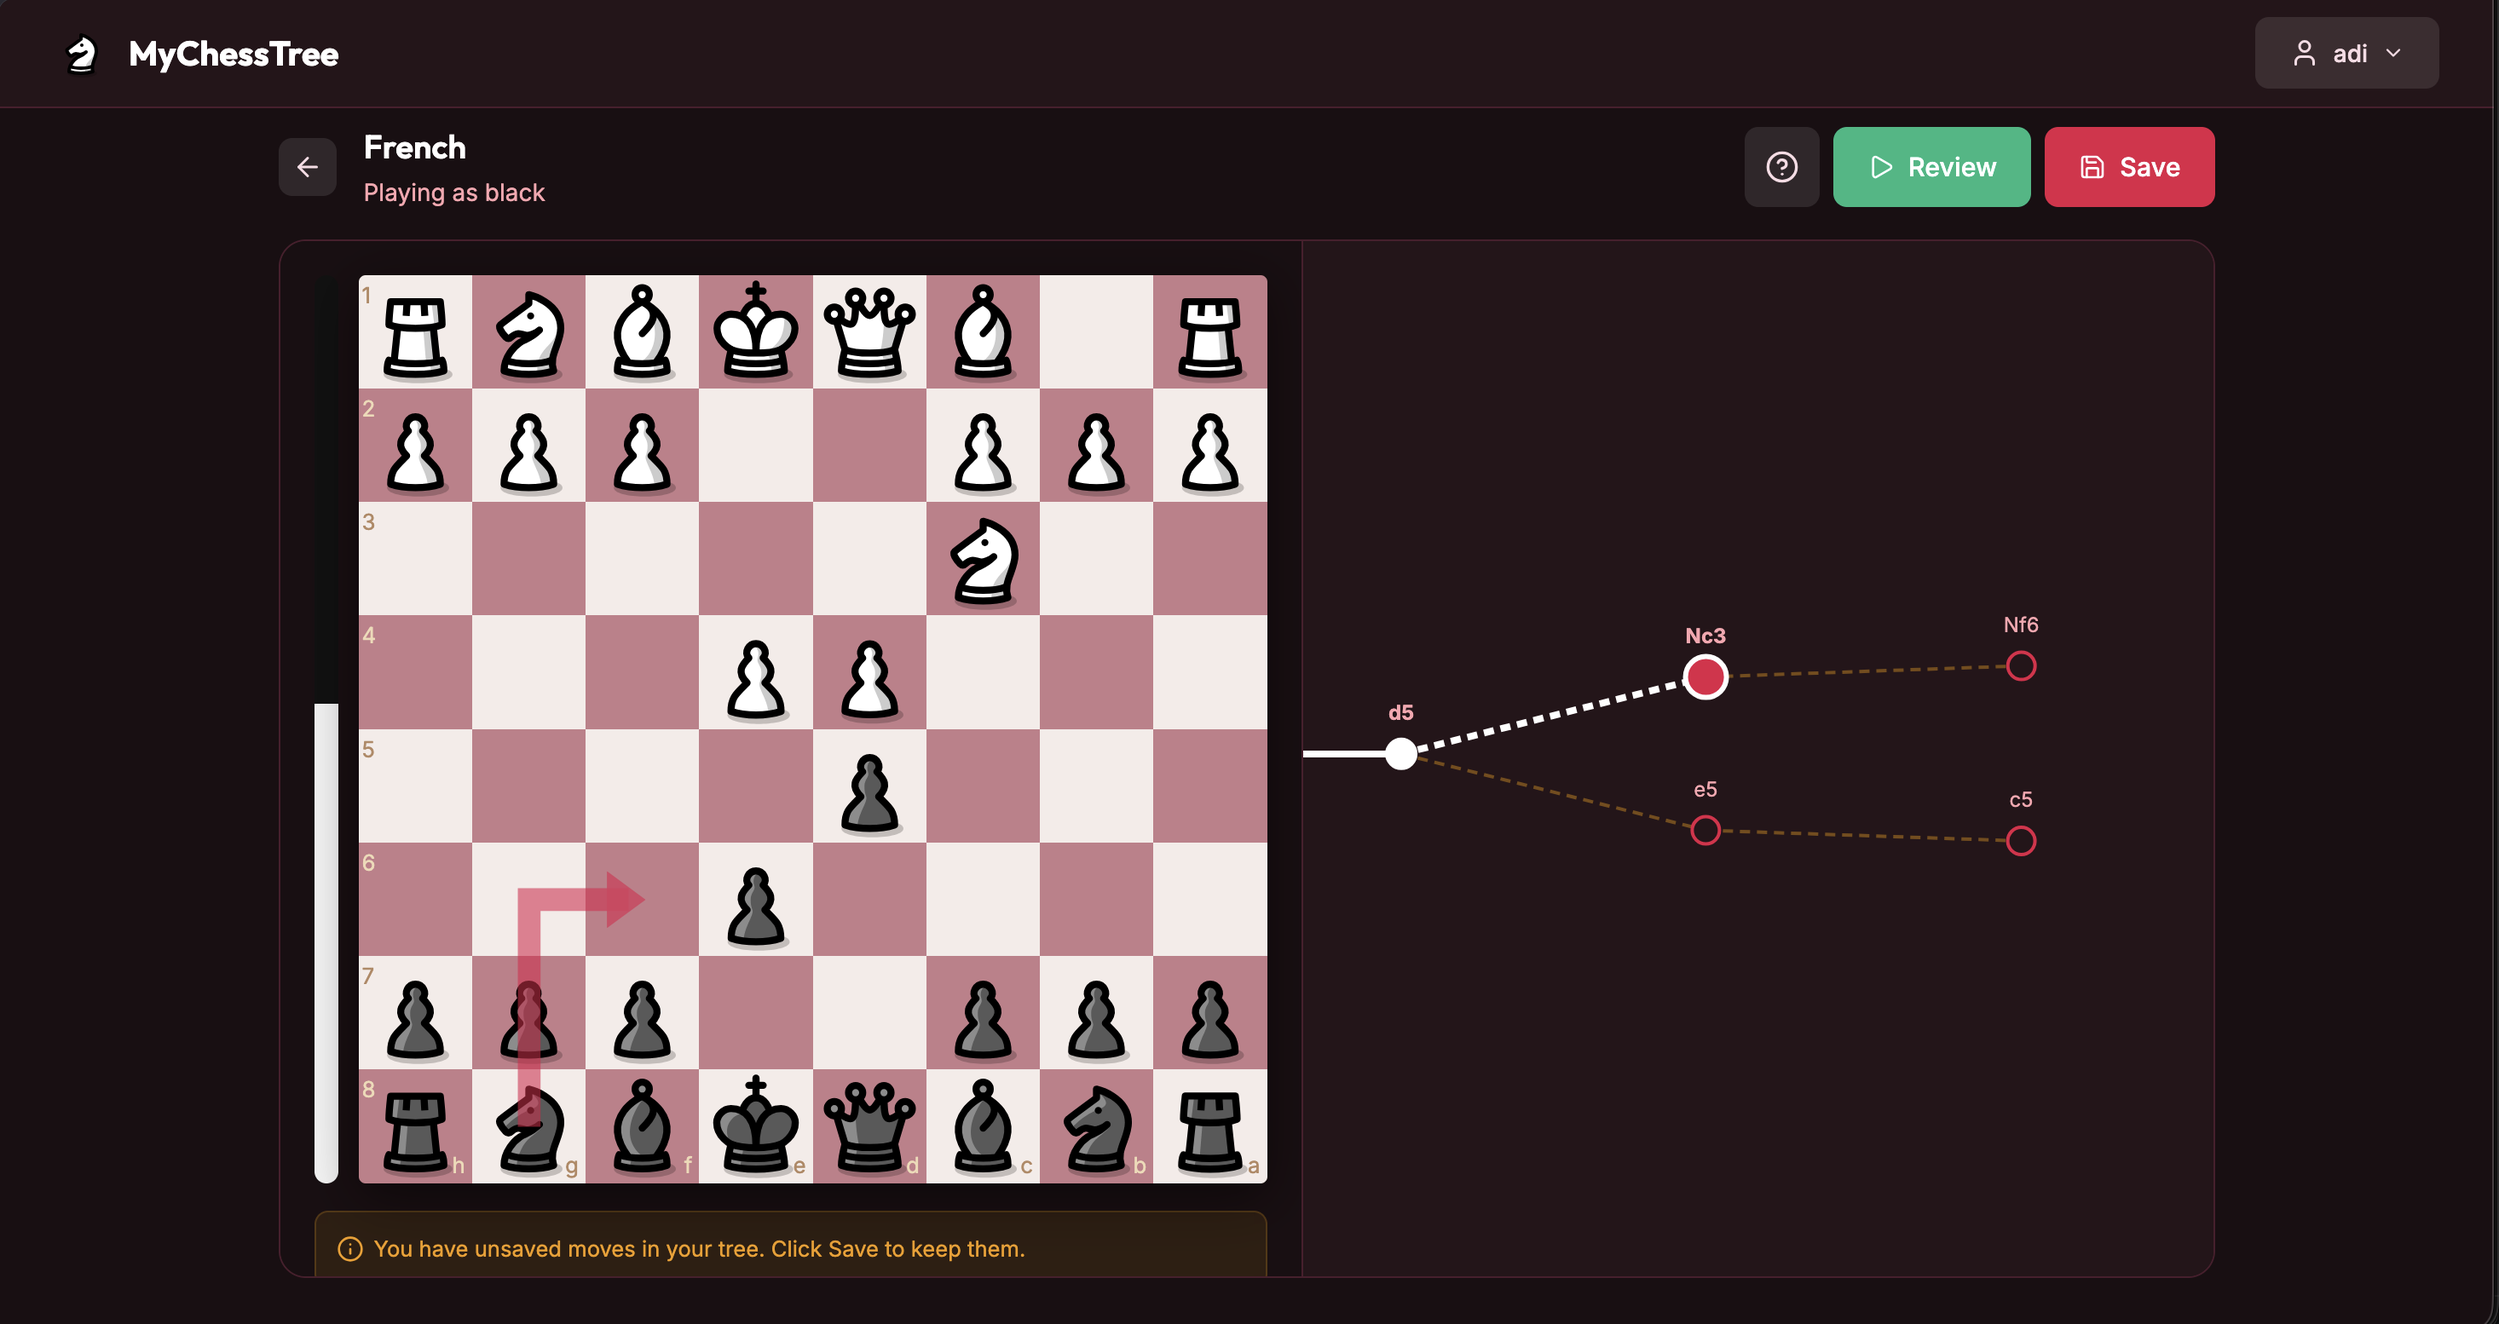
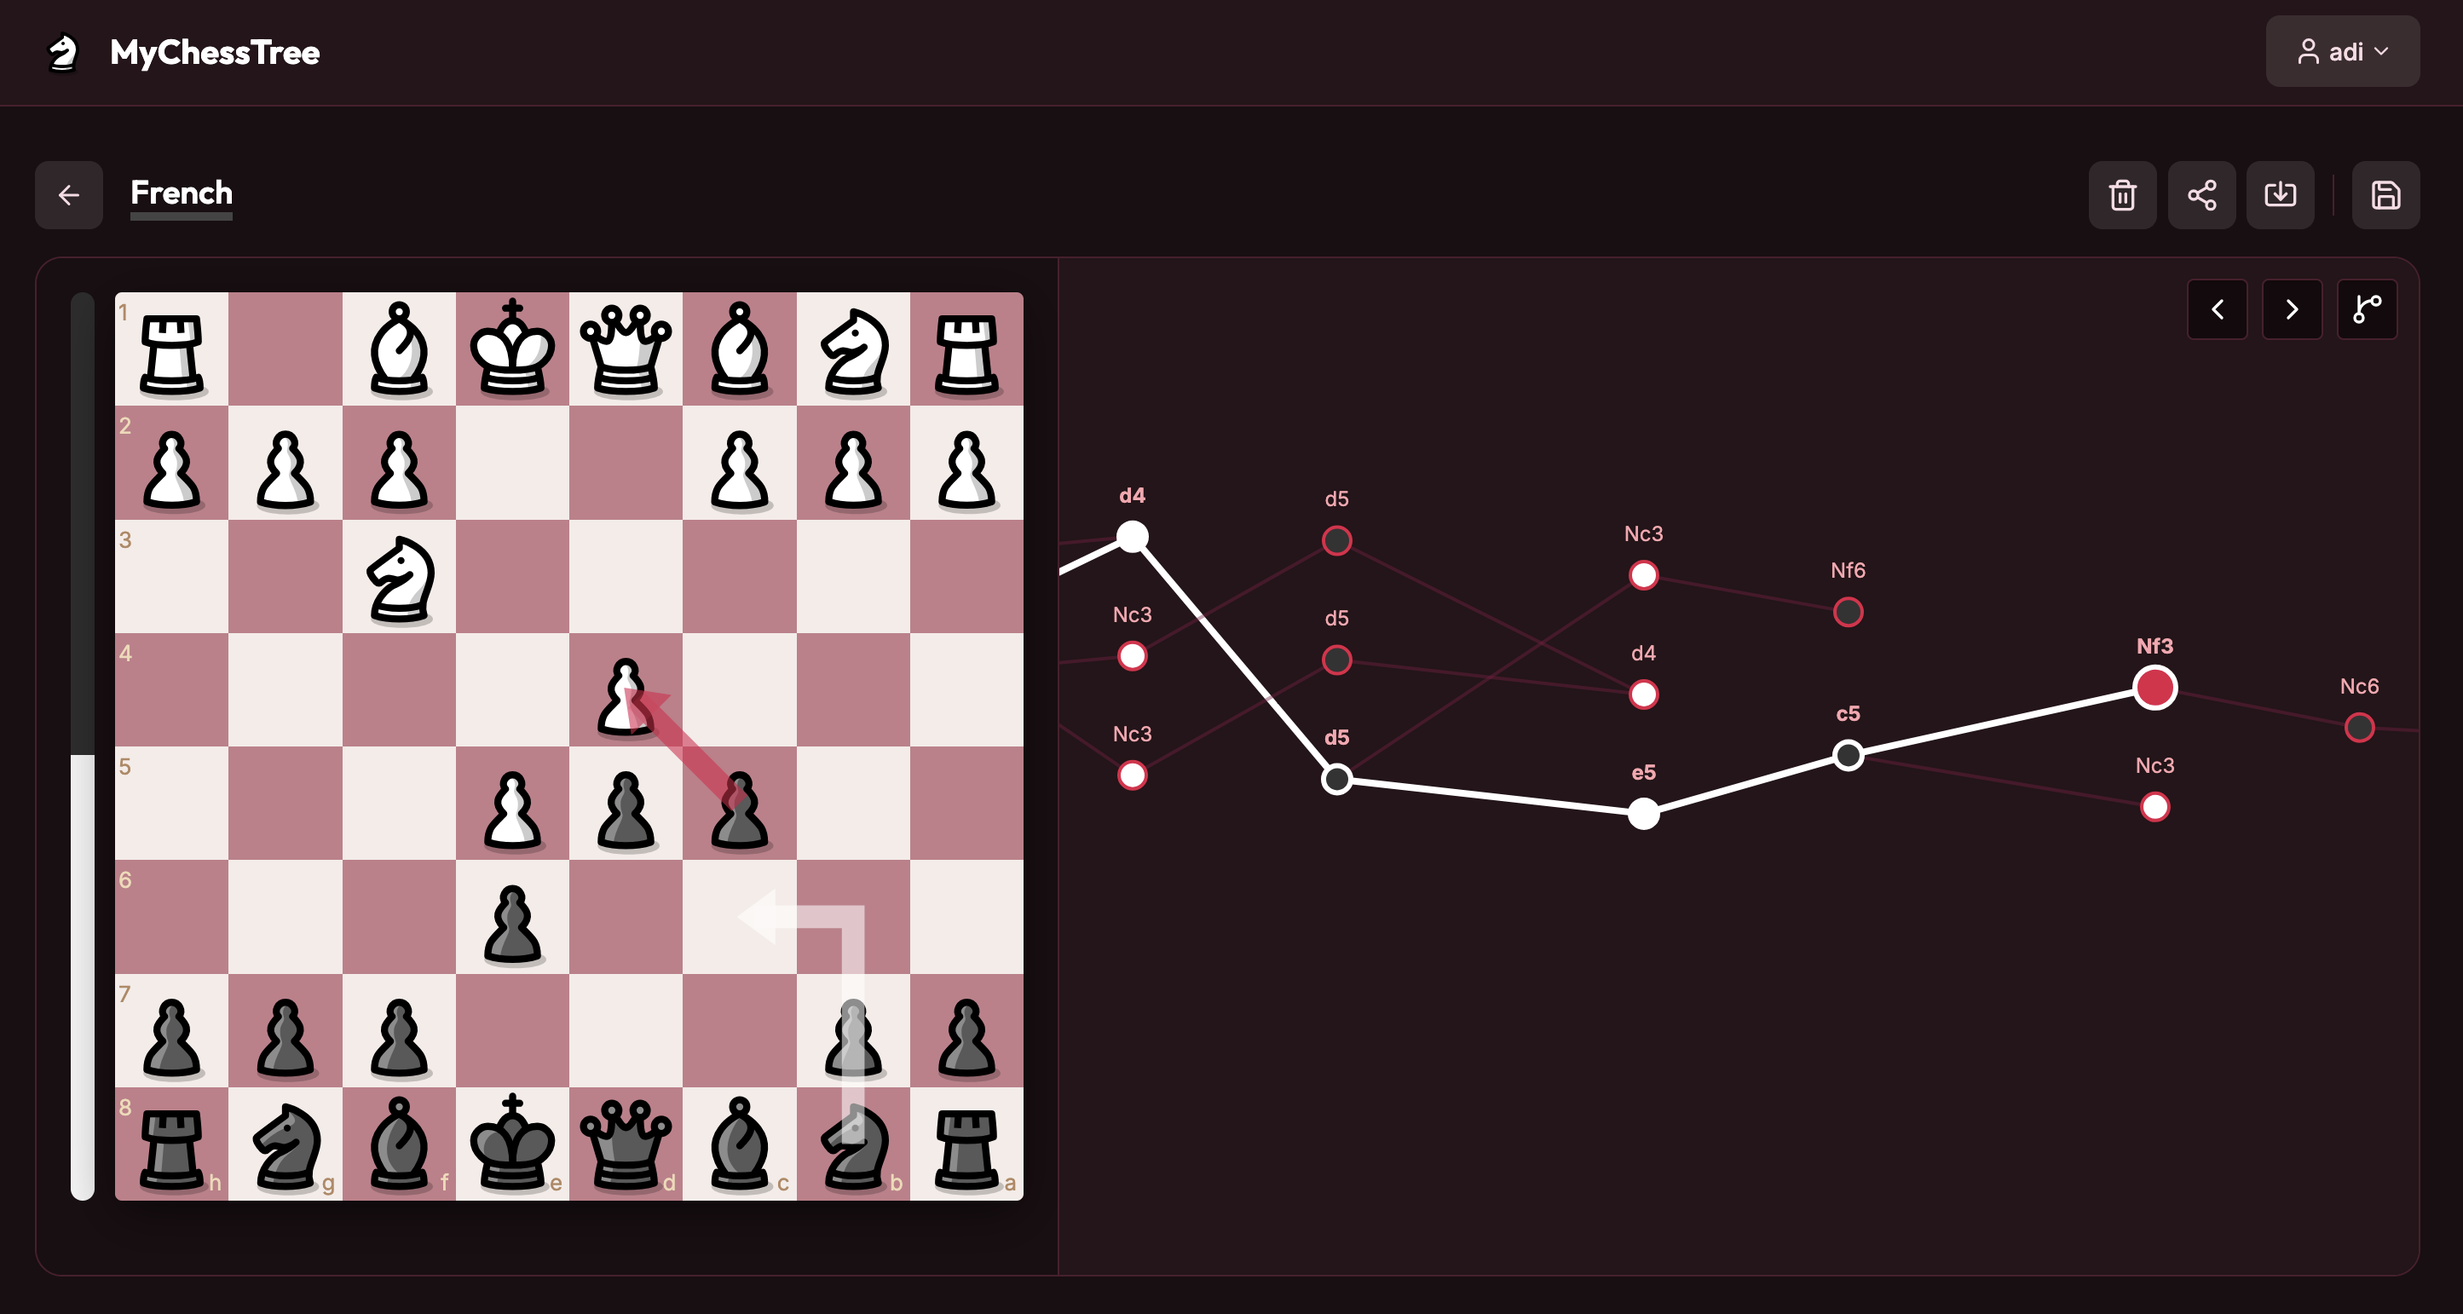
left and right

diff --git a/src/pages/TreeEditor.tsx b/src/pages/TreeEditor.tsx
@@ -7,7 +7,7 @@ import { supabase } from '../lib/supabase';
 import ForceTree from '../components/ForceTree';
 import { useAuth } from '../hooks/useAuth';
 import { useMobile } from '../hooks/useMobile';
-import { ArrowLeft, Save, X, Share2, Trash2, Users, Import, Menu } from 'lucide-react';
+import { ArrowLeft, Save, X, Share2, Trash2, Users, Import, Menu, Eye, Pencil } from 'lucide-react';
 import TooltipButton from '../components/TooltipButton';
 import { calientePieces, boardStyles } from '../lib/chessAssets';
 import type { TreeNode } from '../types/tree';
@@ -70,34 +70,78 @@ export default function TreeEditor() {
           gameRef.current = new Chess(nextNode.fen);
           setCurrentFen(nextNode.fen);
         } else if (importedBranch && importedBranch.children.length > 0) {
-          // Check if we're at the diverge point (importedBranch.fen)
+          // Check if we're in an imported branch and find next node
+          const findInImportedBranch = (node: TreeNode, targetFen: string): TreeNode | null => {
+            if (node.fen === targetFen) return node;
+            for (const child of node.children) {
+              const found = findInImportedBranch(child, targetFen);
+              if (found) return found;
+            }
+            return null;
+          };
+
+          // Check if we're at the diverge point
           if (currentFen === importedBranch.fen && importedBranch.children.length > 0) {
             const branchNode = importedBranch.children[0];
             gameRef.current = new Chess(branchNode.fen);
             setCurrentFen(branchNode.fen);
+          } else {
+            // Find current node in imported branch and go to its child
+            const importedCurrentNode = findInImportedBranch(importedBranch, currentFen);
+            if (importedCurrentNode && importedCurrentNode.children.length > 0) {
+              const nextNode = importedCurrentNode.children[0];
+              gameRef.current = new Chess(nextNode.fen);
+              setCurrentFen(nextNode.fen);
+            }
           }
         }
       } else if (e.key === 'ArrowLeft') {
-        // Go to parent - check if we're in an imported branch
+        // Go to parent - check if we're in an imported branch first
         if (importedBranch && importedBranch.children.length > 0) {
-          const isInImportedBranch = (fen: string): boolean => {
-            const checkNode = (node: TreeNode): boolean => {
-              if (node.fen === fen) return true;
-              for (const child of node.children) {
-                if (checkNode(child)) return true;
-              }
-              return false;
-            };
-            for (const child of importedBranch.children) {
-              if (checkNode(child)) return true;
+          const findInImportedBranch = (node: TreeNode, targetFen: string): TreeNode | null => {
+            if (node.fen === targetFen) return node;
+            for (const child of node.children) {
+              const found = findInImportedBranch(child, targetFen);
+              if (found) return found;
             }
-            return false;
+            return null;
+          };
+
+          const findParentInImportedBranch = (node: TreeNode, targetFen: string, parent: TreeNode | null): TreeNode | null => {
+            if (node.fen === targetFen) return parent;
+            for (const child of node.children) {
+              const found = findParentInImportedBranch(child, targetFen, node);
+              if (found) return found;
+            }
+            return null;
           };
           
-          if (isInImportedBranch(currentFen)) {
-            // Go back to the diverge point
-            gameRef.current = new Chess(importedBranch.fen);
-            setCurrentFen(importedBranch.fen);
+          // Check if we're in the imported branch
+          const importedCurrentNode = findInImportedBranch(importedBranch, currentFen);
+          if (importedCurrentNode) {
+            // If we're at the diverge point, go back to main tree parent
+            if (currentFen === importedBranch.fen) {
+              const findParent = (node: TreeNode, targetFen: string, parent: TreeNode | null): TreeNode | null => {
+                if (node.fen === targetFen) return parent;
+                for (const child of node.children) {
+                  const found = findParent(child, targetFen, node);
+                  if (found) return found;
+                }
+                return null;
+              };
+              const parentNode = findParent(treeData, currentFen, null);
+              if (parentNode) {
+                gameRef.current = new Chess(parentNode.fen);
+                setCurrentFen(parentNode.fen);
+              }
+            } else {
+              // Go to parent in imported branch
+              const importedParent = findParentInImportedBranch(importedBranch, currentFen, null);
+              if (importedParent) {
+                gameRef.current = new Chess(importedParent.fen);
+                setCurrentFen(importedParent.fen);
+              }
+            }
             return;
           }
         }
@@ -163,7 +207,7 @@ export default function TreeEditor() {
     setLoadingShares(true);
     const { data } = await supabase
       .from('tree_shares')
-      .select('*, users!tree_shares_user_id_fkey(username)')
+      .select('*, users!inner(username)')
       .eq('tree_id', id);
     setExistingShares(data || []);
     setLoadingShares(false);
@@ -450,27 +494,36 @@ export default function TreeEditor() {
               Share Tree
             </h2>
 
-            <div className="input-group">
-              <label>Recipient Username</label>
-              <input
-                type="text"
-                className="input"
-                placeholder="Enter exact username"
-                value={shareUsername}
-                onChange={(e) => setShareUsername(e.target.value.toLowerCase())}
-              />
-            </div>
-
-            <div className="input-group">
-              <label>Access Level</label>
-              <select
-                className="input"
-                value={shareAccess}
-                onChange={(e) => setShareAccess(e.target.value as 'read' | 'edit')}
-              >
-                <option value="read">Can View (Read Only)</option>
-                <option value="edit">Can Edit & Save</option>
-              </select>
+            <div style={{ display: 'flex', gap: '0.5rem', alignItems: 'center' }}>
+              <div className="input-group" style={{ flex: 1, marginBottom: 0 }}>
+                <label>Recipient Username</label>
+                <div style={{ display: 'flex', gap: '0.5rem', alignItems: 'center' }}>
+                  <input
+                    type="text"
+                    className="input"
+                    placeholder="Enter exact username"
+                    value={shareUsername}
+                    onChange={(e) => setShareUsername(e.target.value.toLowerCase())}
+                    style={{ flex: 1 }}
+                  />
+                  <TooltipButton
+                    tooltip={`Current: ${shareAccess === 'read' ? 'Read Only' : 'Edit Access'} - Click to toggle`}
+                    onClick={() => setShareAccess(shareAccess === 'read' ? 'edit' : 'read')}
+                    className="btn btn-secondary"
+                    style={{ 
+                      padding: '0.5rem', 
+                      display: 'flex', 
+                      alignItems: 'center', 
+                      justifyContent: 'center',
+                      minWidth: '44px',
+                      height: '40px',
+                      flexShrink: 0
+                    }}
+                  >
+                    {shareAccess === 'read' ? <Eye size={18} /> : <Pencil size={18} />}
+                  </TooltipButton>
+                </div>
+              </div>
             </div>
 
             {shareStatus.msg && (
@@ -512,7 +565,7 @@ export default function TreeEditor() {
                 }
               }}
               className="btn"
-              style={{ width: '100%' }}
+              style={{ width: '100%', marginTop: '1rem' }}
             >
               Grant Access
             </button>
@@ -525,9 +578,23 @@ export default function TreeEditor() {
                   <div style={{ display: 'flex', flexDirection: 'column', gap: '0.75rem' }}>
                     {existingShares.length === 0 ? <div className="text-muted text-sm">No shares yet.</div> : existingShares.map(s => (
                       <div key={s.user_id} className="flex items-center justify-between" style={{ padding: '0.5rem', backgroundColor: 'rgba(255,255,255,0.03)', borderRadius: '4px' }}>
-                        <div>
+                        <div style={{ display: 'flex', alignItems: 'center', gap: '0.75rem' }}>
+                          <div 
+                            style={{ 
+                              padding: '0.25rem', 
+                              marginLeft: '0.5rem',
+                              borderRadius: '4px', 
+                              backgroundColor: 'rgba(255,255,255,0.1)', 
+                              display: 'flex', 
+                              alignItems: 'center', 
+                              justifyContent: 'center',
+                              width: '24px',
+                              height: '24px'
+                            }}
+                          >
+                            {s.access_level === 'read' ? <Eye size={14} /> : <Pencil size={14} />}
+                          </div>
                           <div style={{ fontSize: '0.9rem', fontWeight: 600 }}>{s.users?.username || 'Unknown'}</div>
-                          <div className="text-muted text-xs uppercase">{s.access_level}</div>
                         </div>
                         <button
                           onClick={async () => {

diff --git a/src/components/ForceTree.tsx b/src/components/ForceTree.tsx
@@ -1,6 +1,6 @@
 import { useEffect, useRef, useState, useCallback, useMemo } from 'react';
 import * as d3 from 'd3';
-import { GitBranchPlus, GitBranch } from 'lucide-react';
+import { GitBranchPlus, GitBranch, ChevronLeft, ChevronRight } from 'lucide-react';
 import TooltipButton from './TooltipButton';
 
 export interface TreeNode {
@@ -44,6 +44,75 @@ export default function ForceTree({ data, currentFen, onNodeClick, isDeleteMode,
   const svgRef = useRef<SVGSVGElement>(null);
   const [focusMode, setFocusMode] = useState(false);
   const activePath = useMemo(() => pathToNode(data, currentFen), [data, currentFen]);
+
+  // Navigation functions
+  const navigateLeft = useCallback(() => {
+    // Find parent of current node
+    const findParent = (node: TreeNode, targetFen: string, parent: TreeNode | null): TreeNode | null => {
+      if (node.fen === targetFen) return parent;
+      for (const child of node.children) {
+        const found = findParent(child, targetFen, node);
+        if (found) return found;
+      }
+      return null;
+    };
+
+    // Check if we're in an imported branch first
+    if (importedBranch && importedBranch.children.length > 0) {
+      const isInImportedBranch = (fen: string): boolean => {
+        const checkNode = (node: TreeNode): boolean => {
+          if (node.fen === fen) return true;
+          for (const child of node.children) {
+            if (checkNode(child)) return true;
+          }
+          return false;
+        };
+        for (const child of importedBranch.children) {
+          if (checkNode(child)) return true;
+        }
+        return false;
+      };
+      
+      if (isInImportedBranch(currentFen)) {
+        // Go back to the diverge point
+        onNodeClick({ fen: importedBranch.fen, move: 'Start' });
+        return;
+      }
+    }
+
+    // Otherwise find parent in main tree
+    const parentNode = findParent(data, currentFen, null);
+    if (parentNode) {
+      onNodeClick({ fen: parentNode.fen, move: parentNode.move || 'Start' });
+    }
+  }, [currentFen, data, importedBranch, onNodeClick]);
+
+  const navigateRight = useCallback(() => {
+    // Find current node in tree
+    const findNode = (node: TreeNode, fen: string): TreeNode | null => {
+      if (node.fen === fen) return node;
+      for (const child of node.children) {
+        const found = findNode(child, fen);
+        if (found) return found;
+      }
+      return null;
+    };
+
+    const currentNode = findNode(data, currentFen);
+    if (!currentNode) return;
+
+    // Go to first child - check main tree first, then imported branch
+    if (currentNode.children.length > 0) {
+      const nextNode = currentNode.children[0];
+      onNodeClick({ fen: nextNode.fen, move: nextNode.move || 'Start' });
+    } else if (importedBranch && importedBranch.children.length > 0) {
+      // Check if we're at the diverge point (importedBranch.fen)
+      if (currentFen === importedBranch.fen && importedBranch.children.length > 0) {
+        const branchNode = importedBranch.children[0];
+        onNodeClick({ fen: branchNode.fen, move: branchNode.move || 'Start' });
+      }
+    }
+  }, [currentFen, data, importedBranch, onNodeClick]);
 
   const importedFens = useMemo(() => {
     if (!importedBranch) return new Set<string>();
@@ -243,6 +312,44 @@ export default function ForceTree({ data, currentFen, onNodeClick, isDeleteMode,
   return (
     <div ref={containerRef} style={{ width: '100%', height: '100%', position: 'relative', overflow: 'hidden' }}>
       <div style={{ position: 'absolute', top: 12, right: 12, display: 'flex', gap: '0.5rem', zIndex: 20 }}>
+        <TooltipButton
+          tooltip="Navigate Back (Left)"
+          onClick={navigateLeft}
+          className="btn btn-secondary"
+          style={{
+            padding: 0,
+            width: 36,
+            height: 36,
+            background: 'rgba(0,0,0,0.5)',
+            color: '#fff',
+            border: '1px solid var(--border-color)',
+            borderRadius: '4px',
+            display: 'flex',
+            alignItems: 'center',
+            justifyContent: 'center'
+          }}
+        >
+          <ChevronLeft size={20} />
+        </TooltipButton>
+        <TooltipButton
+          tooltip="Navigate Forward (Right)"
+          onClick={navigateRight}
+          className="btn btn-secondary"
+          style={{
+            padding: 0,
+            width: 36,
+            height: 36,
+            background: 'rgba(0,0,0,0.5)',
+            color: '#fff',
+            border: '1px solid var(--border-color)',
+            borderRadius: '4px',
+            display: 'flex',
+            alignItems: 'center',
+            justifyContent: 'center'
+          }}
+        >
+          <ChevronRight size={20} />
+        </TooltipButton>
         <TooltipButton
           tooltip={focusMode ? "Show All Branches" : "Focus Current Branch"}
           onClick={() => setFocusMode(f => !f)}
